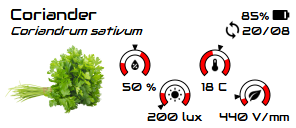
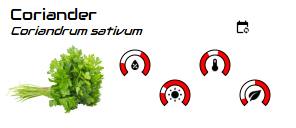
Updated files

diff --git a/template_1_epaper.py b/template_1_epaper.py
@@ -108,7 +108,7 @@ def plot_parameter(ctx, parameter, value=False, thick=5, angle=270):
         ctx.show_text(label)
 
 
-def main(path, simulation=True):
+def main(path, simulation=False):
     with open(path) as json_file:
         config = json.load(json_file)
 
@@ -169,16 +169,11 @@ def main(path, simulation=True):
                              cairo.FONT_WEIGHT_NORMAL)
         ctx.move_to(config['general']['size'][0] - (1.1*width), config['subtitle']['position'][1])
         ctx.show_text(date)
-        draw_image(ctx, 'src/sync.png',
-                   config['subtitle']['position'][1]-15,
-                   config['general']['size'][0] - 1.5*width,
-                   20, 20)
+
 
         """ Battery status"""
         bat = str(85) + "%"
-        draw_image(ctx, 'src/Battery/battery-90.png',
-                   5-config['general']['size'][0],
-                   5, 20, 20, 90)
+
         xbearing, ybearing, width, height, dx, dy = ctx.text_extents(bat)
         ctx.set_font_size(config['subtitle']['font_size'])
         ctx.select_font_face(config['subtitle']['font_type'],
@@ -186,7 +181,10 @@ def main(path, simulation=True):
                              cairo.FONT_WEIGHT_NORMAL)
         ctx.move_to(config['general']['size'][0] - width - 25, config['title']['position'][1])
         ctx.show_text(bat)
-
+        draw_image(ctx, 'src/Battery/battery-90.png',
+                   5-config['general']['size'][0],
+                   5, 20, 20, 90)
+    draw_image(ctx, 'src/calendar-sync.png', 20, 235, 15, 15)
     output = path.split('.')[0] + '_label_1.png'
     surface.write_to_png(output)
 
@@ -197,5 +195,5 @@ if __name__ == "__main__":
     ]
 
     for path in paths:
-        main(path, simulation=True)
+        main(path, simulation=False)
 
